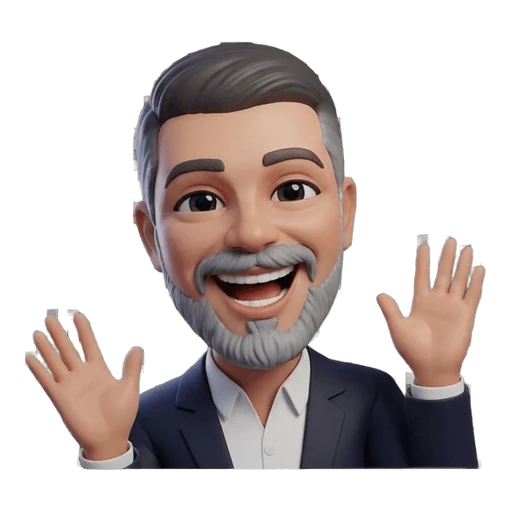
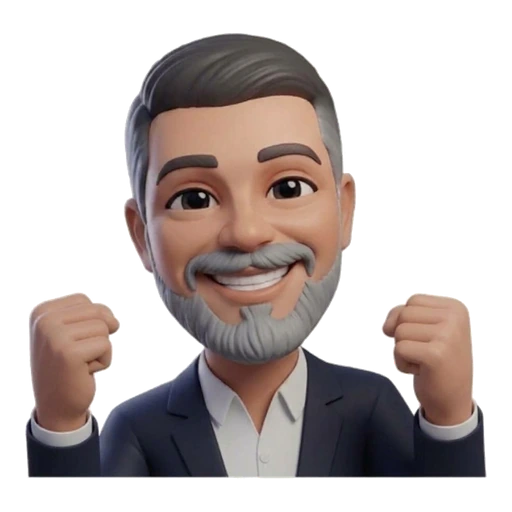
Novo toque em dois passos, fim das fases sem derrota e aviso de apoio com e-mail
- Toque: 1º marca ✕, 2º toque seguido revela; arrastar só marca ✕;
  casa com ✕ precisa de um toque para apagar e outro para revelar.
- Revelar casa descartada agora custa vida (fases 1–9 não davam para perder).
- Aviso de apoio: R$ 2,00, meta US$ 25,00 e campo de e-mail para pedir a foto.
- Novos recortes do Celso e da Sol (happy) sem cortar partes da imagem.
- Cache do service worker v3.4.0.

diff --git a/src/js/support.js b/src/js/support.js
@@ -9,6 +9,10 @@
  *  - PHOTO:       fotografia do desenvolvedor. Arquivo ausente = esconde a foto.
  *  - USD_BRL:     cotação usada só para a estimativa em reais. 0 = não mostra a conversão.
  *  - POPUP_EVERY: o aviso automático volta a aparecer a cada N fases concluídas.
+ *  - POPUP_AMOUNT_BRL:  valor sugerido no aviso (R$). O valor cobrado é o do link de pagamento.
+ *  - POPUP_PAYMENT_URL: link de pagamento do aviso (ex.: link do Mercado Pago de R$ 2,00). Vazio = PAYMENT_URL.
+ *  - CONTACT_ENDPOINT:  URL que recebe o e-mail do apoiador por POST JSON (ex.: Formspree/FormSubmit).
+ *                       Vazio = o e-mail fica guardado só no aparelho de quem jogou.
  */
 (function (CPD) {
   'use strict';
@@ -21,6 +25,9 @@
     GOAL_USD: 25,
     USD_BRL: 0,
     POPUP_EVERY: 3,
+    POPUP_AMOUNT_BRL: 2,
+    POPUP_PAYMENT_URL: '',
+    CONTACT_ENDPOINT: '',
     DEV_NAME: 'CjotaDev7',
   };
 
@@ -28,11 +35,30 @@
   const local = CPD.storage.local;
   const KEY = 'support.v1';
 
-  const state = Object.assign({ hidePopup: false, wins: 0, pending: false, shownOnce: false }, local.get(KEY, {}));
-  function save() { local.set(KEY, { hidePopup: state.hidePopup, wins: state.wins, pending: state.pending }); }
+  const state = Object.assign({ hidePopup: false, wins: 0, pending: false, shownOnce: false, email: '' }, local.get(KEY, {}));
+  function save() { local.set(KEY, { hidePopup: state.hidePopup, wins: state.wins, pending: state.pending, email: state.email }); }
 
   const money = (v, cur) => new Intl.NumberFormat('pt-BR', { style: 'currency', currency: cur, minimumFractionDigits: 2 }).format(v);
-  const hasPayment = () => /^https:\/\/\S+$/i.test(CONFIG.PAYMENT_URL);
+  const isUrl = (u) => /^https:\/\/\S+$/i.test(u || '');
+  const hasPayment = () => isUrl(CONFIG.PAYMENT_URL);
+  const popupPaymentUrl = () => (isUrl(CONFIG.POPUP_PAYMENT_URL) ? CONFIG.POPUP_PAYMENT_URL : CONFIG.PAYMENT_URL);
+  const validEmail = (v) => /^[^\s@]+@[^\s@]+\.[^\s@]{2,}$/.test(v);
+
+  /** Guarda o e-mail do apoiador e, se houver CONTACT_ENDPOINT, envia em segundo plano. */
+  function submitContact(email, origin) {
+    state.email = email; save();
+    if (!isUrl(CONFIG.CONTACT_ENDPOINT)) return;
+    try {
+      fetch(CONFIG.CONTACT_ENDPOINT, {
+        method: 'POST', keepalive: true,
+        headers: { 'Content-Type': 'application/json', Accept: 'application/json' },
+        body: JSON.stringify({
+          email, origem: origin, _subject: 'Family Quest: novo apoiador (pedir foto para a próxima atualização)',
+          mensagem: 'Entrar em contato e solicitar a foto para inserir na próxima atualização do jogo.',
+        }),
+      }).catch(() => {});
+    } catch (e) { /* sem rede: o e-mail continua salvo no aparelho */ }
+  }
 
   /* ---------- Página ---------- */
   function renderPage() {
@@ -59,11 +85,25 @@
       CONFIG.USD_BRL > 0 ? el('p', { class: 'support-brl' }, `≈ ${money(CONFIG.GOAL_USD * CONFIG.USD_BRL, 'BRL')}`) : null,
       el('p', { class: 'support-fine' }, 'O valor final pode variar conforme o câmbio e os encargos.'));
 
-    const payBtn = el('button', { class: 'btn btn-accent btn-xl support-pay', id: 'support-pay' }, icon('heart'), hasPayment() ? 'Quero apoiar o projeto' : 'Link de apoio em breve');
+    const payBtn = el('button', { class: 'btn btn-accent btn-xl support-pay', id: 'support-pay', type: 'submit' }, icon('heart'), hasPayment() ? 'Quero apoiar o projeto' : 'Link de apoio em breve');
     payBtn.disabled = !hasPayment();
-    payBtn.addEventListener('click', openPayment);
+    const email = el('input', { type: 'email', id: 'support-email', placeholder: 'seu@email.com', autocomplete: 'email', inputmode: 'email', maxlength: '120' });
+    email.value = state.email || '';
+    const err = el('p', { class: 'support-contact-error' }, 'Digite um e-mail válido para eu poder falar com você.');
+    err.hidden = true;
+    const form = el('form', { class: 'support-contact', novalidate: 'novalidate' },
+      el('label', { for: 'support-email' }, 'Seu e-mail para eu entrar em contato e pedir sua foto para a próxima atualização do jogo:'),
+      email, err, el('div', { class: 'dialog-actions col' }, payBtn));
+    form.addEventListener('submit', (e) => {
+      e.preventDefault();
+      const v = email.value.trim();
+      if (!validEmail(v)) { err.hidden = false; email.setAttribute('aria-invalid', 'true'); email.focus(); return; }
+      err.hidden = true; email.removeAttribute('aria-invalid');
+      openPayment();
+      submitContact(v, 'pagina');
+    });
     const pay = el('div', { class: 'card support-pay-card' },
-      payBtn,
+      form,
       el('p', { class: 'hint-text center' }, 'Contribua com qualquer quantia. Todo apoio é voluntário e recebido com gratidão.'),
       el('p', { class: 'support-reward' }, icon('star'), ' Quem apoia ganha uma surpresa: sua imagem no próximo jogo!'));
 
@@ -87,11 +127,13 @@
   }
 
   /** Abre o link configurado numa aba nova; se o navegador bloquear, navega na mesma. Nunca abre sozinho. */
-  function openPayment() {
-    if (!hasPayment()) { CPD.ui.toast('O link de apoio ainda não foi configurado.'); return; }
+  function openPayment(url) {
+    const target = isUrl(url) ? url : CONFIG.PAYMENT_URL;
+    if (!isUrl(target)) { CPD.ui.toast('O link de apoio ainda não foi configurado.'); return false; }
     CPD.audio.play('click');
-    const w = window.open(CONFIG.PAYMENT_URL, '_blank', 'noopener,noreferrer');
-    if (!w) location.href = CONFIG.PAYMENT_URL;
+    const w = window.open(target, '_blank', 'noopener,noreferrer');
+    if (!w) location.href = target;
+    return true;
   }
 
   async function copyText(text, btn) {
@@ -112,7 +154,16 @@
 
   function openPopup(onClose) {
     afterClose = onClose || null;
-    $('#support-popup-goal').textContent = `${money(CONFIG.GOAL_USD, 'USD')}${CONFIG.USD_BRL > 0 ? ' · ≈ ' + money(CONFIG.GOAL_USD * CONFIG.USD_BRL, 'BRL') : ''}`;
+    const amount = money(CONFIG.POPUP_AMOUNT_BRL, 'BRL');
+    const amt = $('#support-popup-amount');
+    amt.innerHTML = '';
+    amt.append(el('small', null, 'Apoie com'), amount);
+    $('#support-popup-goal').textContent = `Meta: ${money(CONFIG.GOAL_USD, 'USD')}${CONFIG.USD_BRL > 0 ? ' · ≈ ' + money(CONFIG.GOAL_USD * CONFIG.USD_BRL, 'BRL') : ''}`;
+    $('#support-popup-pay span').textContent = `Apoiar com ${amount}`;
+    $('#support-popup-pay').disabled = !isUrl(popupPaymentUrl());
+    $('#support-popup-email').value = state.email || '';
+    $('#support-popup-email').removeAttribute('aria-invalid');
+    $('#support-popup-error').hidden = true;
     $('#support-popup-hide').checked = false;
     CPD.ui.openOverlay('ov-support');
     state.pending = false; state.shownOnce = true; save();
@@ -147,6 +198,23 @@
       if (!b) return;
       CPD.audio.play('click');
       closePopup(b.dataset.act === 'open');
+    });
+    $('#support-popup-form').addEventListener('submit', (e) => {
+      e.preventDefault();
+      const input = $('#support-popup-email');
+      const v = input.value.trim();
+      if (!validEmail(v)) {
+        $('#support-popup-error').hidden = false;
+        input.setAttribute('aria-invalid', 'true');
+        input.focus();
+        CPD.audio.play('error');
+        return;
+      }
+      // abre o pagamento ainda dentro do clique (evita bloqueio de pop-up) e depois envia o contato
+      if (!openPayment(popupPaymentUrl())) return;
+      submitContact(v, 'aviso');
+      CPD.ui.toast('Obrigado! Vou entrar em contato pelo seu e-mail. ♥', 'ok');
+      closePopup(false);
     });
   }
 

diff --git a/src/js/board-ui.js b/src/js/board-ui.js
@@ -1,7 +1,9 @@
 /* CarolPawsDoku — tela de jogo do quebra-cabeça de regiões.
  *
- * Toque: 1× marca ✕ · 2× revela (validado contra a solução) · arrastar marca/apaga várias ✕.
- * Revelar certo mostra o personagem da região; errado custa 1 vida e a casa vira ✕.
+ * Toque: 1º toque marca ✕ · 2º toque seguido na mesma casa revela (validado contra a solução).
+ * Arrastar só marca ✕ (nunca revela nem apaga). Casa que já tinha ✕ (de arraste ou de antes):
+ * o 1º toque apaga o ✕ e só o toque seguinte revela.
+ * Revelar certo mostra o personagem da região; errado (inclusive casa descartada) custa 1 vida e vira ✕.
  * Teclado: setas movem, X/Espaço marca, Enter revela, Z desfaz, Esc pausa.
  */
 (function (CPD) {
@@ -19,6 +21,7 @@
   let coachIdx = -1;
   let msgTimer = null;
   let drag = null; // { start, moved, value, group }
+  let armed = -1;  // casa pronta para revelar no próximo toque (só a do último toque)
 
   const nameOf = (id) => { const c = CPD.characters.get(id); return c ? c.name : ''; };
   // Marcação automática (bolinhas nas casas descartadas): só nas fases 1–9. Depois, o jogador marca tudo.
@@ -45,7 +48,7 @@
         return;
       }
       level = session.level;
-      focus = -1; busy = false; paused = false; coachIdx = -1; drag = null;
+      focus = -1; busy = false; paused = false; coachIdx = -1; drag = null; armed = -1;
       // personagens já revelados no início também entram na coleção
       if (!o.resume && session.givens.length) CPD.progress.markFound(session.givens.map((g) => session.characterAt(g)));
       setup();
@@ -232,6 +235,7 @@
       cells[i].classList.toggle('focus', i === focus);
       cells[i].classList.toggle('hl-line', inLine && i !== focus);
       cells[i].classList.toggle('coach', i === coachIdx);
+      cells[i].classList.toggle('armed', i === armed && !session.isPlaced(i));
       cells[i].tabIndex = i === (focus >= 0 ? focus : 0) ? 0 : -1;
     }
   }
@@ -289,31 +293,33 @@
 
   function canPlay() { return session && session.status === 'playing' && !busy && !paused; }
 
-  /** Toque simples: livre → ✕ → revelar. */
+  /**
+   * Toque simples, sempre em dois passos na mesma casa:
+   *  - casa livre:      1º toque marca ✕ · 2º toque revela;
+   *  - casa já com ✕:   1º toque apaga o ✕ · 2º toque revela;
+   *  - fases sem marcas: 1º toque seleciona · 2º toque revela.
+   * Tocar em outra casa (ou arrastar/desfazer) cancela a revelação pendente.
+   */
   function tap(i) {
     if (!canPlay()) return;
     focus = i;
-    if (session.isPlaced(i)) { CPD.audio.play('select'); updateHighlights(); return; }
-    if (!level.noMarks && !session.marks[i]) {
-      session.toggleMark(i);
-      CPD.audio.play('select');
+    if (session.isPlaced(i)) { armed = -1; CPD.audio.play('select'); updateHighlights(); return; }
+    if (armed === i) { armed = -1; reveal(i); return; }
+    armed = i;
+    CPD.audio.play('select');
+    if (!level.noMarks) {
+      const hadMark = !!session.marks[i];
+      session.setMark(i, hadMark ? 0 : 1);
       renderCell(i);
-      CPD.anim.play(cells[i].querySelector('.mark'), 'pop');
+      if (!hadMark) CPD.anim.play(cells[i].querySelector('.mark'), 'pop');
       renderIndicators();
-      updateHighlights();
       save();
-      return;
     }
-    reveal(i);
+    updateHighlights();
   }
 
   function reveal(i) {
-    if (autoMarks() && session.eliminated(i)) {
-      message('Essa casa já está descartada por um personagem revelado.');
-      CPD.anim.shake(cells[i]);
-      if (!level.noMarks) { session.toggleMark(i); renderCell(i); renderIndicators(); }
-      return;
-    }
+    armed = -1;
     const foundBefore = new Set(session.foundIds());
     const res = session.place(i);
     if (res.type === 'correct') {
@@ -362,6 +368,8 @@
     if (!canPlay()) return;
     const changed = session.undo();
     if (!changed) return;
+    armed = -1;
+    updateHighlights();
     CPD.audio.play('click');
     changed.forEach((i) => renderCell(i));
     renderIndicators();
@@ -406,7 +414,7 @@
     if (i < 0) return;
     e.preventDefault();
     $('#board').setPointerCapture(e.pointerId);
-    drag = { start: i, last: i, moved: false, value: session.marks[i] ? 0 : 1, group: null, id: e.pointerId };
+    drag = { start: i, last: i, moved: false, value: 1, group: null, id: e.pointerId }; // arrastar só marca ✕
   }
   function onPointerMove(e) {
     if (!drag || e.pointerId !== drag.id || level.noMarks) return;
@@ -414,6 +422,7 @@
     if (i < 0 || i === drag.last) return;
     if (!drag.moved) {
       drag.moved = true;
+      armed = -1;
       drag.group = session.beginGroup();
       if (session.setMark(drag.start, drag.value, drag.group)) renderCell(drag.start);
     }
@@ -424,7 +433,7 @@
     if (!drag || e.pointerId !== drag.id) return;
     const d = drag;
     drag = null;
-    if (d.moved) { session.endGroup(d.group); renderIndicators(); save(); return; }
+    if (d.moved) { session.endGroup(d.group); renderIndicators(); updateHighlights(); save(); return; }
     tap(d.start);
   }
 
@@ -616,7 +625,7 @@
     else if (k === 'ArrowLeft') { moveFocus(0, -1); e.preventDefault(); }
     else if (k === 'ArrowRight') { moveFocus(0, 1); e.preventDefault(); }
     else if (focus >= 0 && (k === 'x' || k === 'X' || k === ' ') && !level.noMarks) {
-      if (!session.isPlaced(focus)) { session.toggleMark(focus); renderCell(focus); renderIndicators(); save(); }
+      if (!session.isPlaced(focus)) { armed = -1; session.toggleMark(focus); renderCell(focus); renderIndicators(); updateHighlights(); save(); }
       e.preventDefault();
     } else if (focus >= 0 && k === 'Enter') { if (!session.isPlaced(focus)) reveal(focus); e.preventDefault(); }
     else if (k === 'z' || k === 'Z') undo();

diff --git a/src/js/levels.js b/src/js/levels.js
@@ -58,14 +58,14 @@
     basics: [
       { title: 'Bem-vindos ao Family Quest!', text: 'O tabuleiro é dividido em <b>regiões coloridas</b>. Em cada região mora <b>um personagem</b> escondido.' },
       { title: 'A regra', text: 'Cada <b>linha</b>, cada <b>coluna</b> e cada <b>região</b> tem exatamente <b>um</b> personagem. E eles <b>nunca se encostam</b> — nem na diagonal.' },
-      { title: 'Como revelar', text: 'Toque <b>uma vez</b> para marcar ✕ (“aqui não”). Toque <b>de novo</b> para revelar um personagem. Acertou: ele aparece! Errou: você perde uma das <b>3 vidas</b>.' },
+      { title: 'Como revelar', text: 'Toque <b>uma vez</b> para marcar ✕ (“aqui não”). Toque <b>de novo</b> na mesma casa para revelar um personagem. Acertou: ele aparece! Errou: você perde uma das <b>3 vidas</b>.' },
       { title: 'Vamos começar?', text: 'Alguns personagens já estão revelados para ajudar. Comece por eles e pela região que tiver menos espaço.', coach: true },
     ],
     marks: [
-      { title: 'Marque sem medo', text: 'As marcas ✕ são só lembretes e nunca custam vida. <b>Arraste o dedo</b> para marcar várias casas de uma vez.' },
+      { title: 'Marque sem medo', text: 'As marcas ✕ são só lembretes e nunca custam vida. <b>Arraste o dedo</b> para marcar várias casas de uma vez. Para revelar uma casa com ✕, toque uma vez para apagar o ✕ e outra para revelar.' },
     ],
     touch: [
-      { title: 'Ninguém se encosta', text: 'Ao revelar um personagem, as casas ao redor dele (inclusive as diagonais) ficam marcadas automaticamente: ali não cabe mais ninguém.' },
+      { title: 'Ninguém se encosta', text: 'Ao revelar um personagem, as casas ao redor dele (inclusive as diagonais) ficam marcadas automaticamente: ali não cabe mais ninguém. Revelar uma casa descartada também custa uma vida!' },
     ],
     confined: [
       { title: 'Região numa linha só', text: 'Se todas as casas livres de uma região estão na <b>mesma linha</b>, o personagem dela fica nessa linha — então o resto da linha pode receber ✕.' },

diff --git a/index.html b/index.html
@@ -251,11 +251,18 @@
       <p class="result-kicker">Uma jornada de desenvolvimento independente</p>
       <h3 id="support-popup-title">Apoie o projeto</h3>
       <p class="support-popup-text">Este jogo é meu primeiro passo como desenvolvedor independente. Estou juntando o valor do cadastro na Google Play para publicar meus próprios jogos e aplicativos.</p>
+      <p class="support-popup-amount" id="support-popup-amount"></p>
       <p class="support-popup-goal" id="support-popup-goal"></p>
-      <div class="dialog-actions col">
-        <button class="btn btn-accent" data-act="open"><svg><use href="#i-heart"/></svg>Conheça o projeto e apoie</button>
-        <button class="btn" data-act="close">Agora não</button>
-      </div>
+      <form class="support-contact" id="support-popup-form" novalidate>
+        <label for="support-popup-email">Deixe seu e-mail: vou entrar em contato para pedir sua foto e colocar você na próxima atualização do jogo!</label>
+        <input type="email" id="support-popup-email" name="email" placeholder="seu@email.com" autocomplete="email" inputmode="email" maxlength="120" required>
+        <p class="support-contact-error" id="support-popup-error" hidden>Digite um e-mail válido para eu poder falar com você.</p>
+        <div class="dialog-actions col">
+          <button type="submit" class="btn btn-accent" id="support-popup-pay"><svg><use href="#i-heart"/></svg><span>Apoiar</span></button>
+          <button type="button" class="btn" data-act="open">Conheça o projeto</button>
+          <button type="button" class="btn" data-act="close">Agora não</button>
+        </div>
+      </form>
       <label class="support-hide"><input type="checkbox" id="support-popup-hide"> Não mostrar este aviso novamente</label>
     </div>
   </div>

diff --git a/src/css/support.css b/src/css/support.css
@@ -34,6 +34,16 @@
 .dialog-support h3 { margin-bottom: 4px; }
 .support-popup-text { margin: 6px 0 8px; line-height: 1.45; color: var(--color-text); font-size: .95rem; }
 .support-popup-goal { display: inline-block; background: var(--pastel-butter); font-weight: 900; padding: 6px 14px; border-radius: 999px; margin: 2px 0 6px; font-variant-numeric: tabular-nums; }
+.support-popup-amount { font-size: 1.9rem; font-weight: 900; line-height: 1.1; margin: 8px 0 2px; font-variant-numeric: tabular-nums; }
+.support-popup-amount small { display: block; font-size: .8rem; font-weight: 800; color: var(--color-muted); letter-spacing: .02em; }
+.support-contact { margin-top: 8px; text-align: left; }
+.support-contact label { display: block; font-size: .88rem; font-weight: 700; line-height: 1.4; margin-bottom: 6px; }
+.support-contact input[type="email"] { width: 100%; box-sizing: border-box; font: inherit; font-size: 1rem; padding: 10px 12px; border-radius: 12px; border: 2px solid var(--color-border); background: var(--color-surface, #fff); color: var(--color-text); }
+.support-contact input[type="email"]:focus { outline: none; border-color: var(--pastel-mint-deep); }
+.support-contact input[aria-invalid="true"] { border-color: var(--color-error); }
+.support-contact-error { margin: 6px 0 0; font-size: .8rem; font-weight: 800; color: var(--color-error); }
+.support-contact-error[hidden] { display: none; }
+.support-contact .dialog-actions { margin-top: 12px; }
 .support-hide { display: flex; align-items: center; justify-content: center; gap: 8px; font-size: .85rem; font-weight: 700; color: var(--color-muted); margin-top: 10px; cursor: pointer; }
 .support-hide input { width: 18px; height: 18px; accent-color: var(--pastel-mint-deep); margin: 0; }
 

diff --git a/src/css/board.css b/src/css/board.css
@@ -81,6 +81,8 @@
 .found-dot { width: calc(var(--c) * .42); height: calc(var(--c) * .42); border-radius: 50%; background: var(--pastel-mint-deep); }
 .cell.given .char::after { content: ''; position: absolute; right: -2%; top: -2%; width: 22%; height: 22%; border-radius: 50%; background: var(--color-surface); box-shadow: inset 0 0 0 2px var(--pastel-mint-deep); }
 .cell.is-wrong { background: color-mix(in srgb, var(--color-error) 30%, var(--rc)); }
+/* casa pronta para revelar no próximo toque */
+.cell.armed { box-shadow: inset 0 0 0 3px color-mix(in srgb, var(--color-text) 55%, transparent); }
 .cell.coach { box-shadow: inset 0 0 0 3px var(--pastel-mint-deep); animation: coach-pulse 1.6s ease-in-out infinite; }
 @keyframes coach-pulse { 50% { box-shadow: inset 0 0 0 3px transparent; } }
 

diff --git a/src/js/game.js b/src/js/game.js
@@ -2,7 +2,7 @@
  *
  * Regras: cada linha, coluna e região tem exatamente um personagem; eles nunca se tocam.
  * Revelar na casa certa (validada contra a solução) mostra o personagem da região.
- * Revelar na casa errada custa 1 vida e a casa vira ✕. 3 erros = derrota.
+ * Revelar na casa errada (inclusive uma já descartada) custa 1 vida e a casa vira ✕. 3 erros = derrota.
  * 3 dicas por partida; usar a 3ª encerra a partida. Marcas ✕ nunca custam nada.
  */
 (function (CPD) {

diff --git a/sw.js b/sw.js
@@ -7,7 +7,7 @@
  *
  * Para publicar arquivos novos ou alterados, aumente VERSION: o cache antigo é apagado.
  */
-const VERSION = 'v3.3.0';
+const VERSION = 'v3.4.0';
 const SHELL_CACHE = 'cpd-shell-' + VERSION;
 const AUDIO_CACHE = 'cpd-audio-v1';
 
